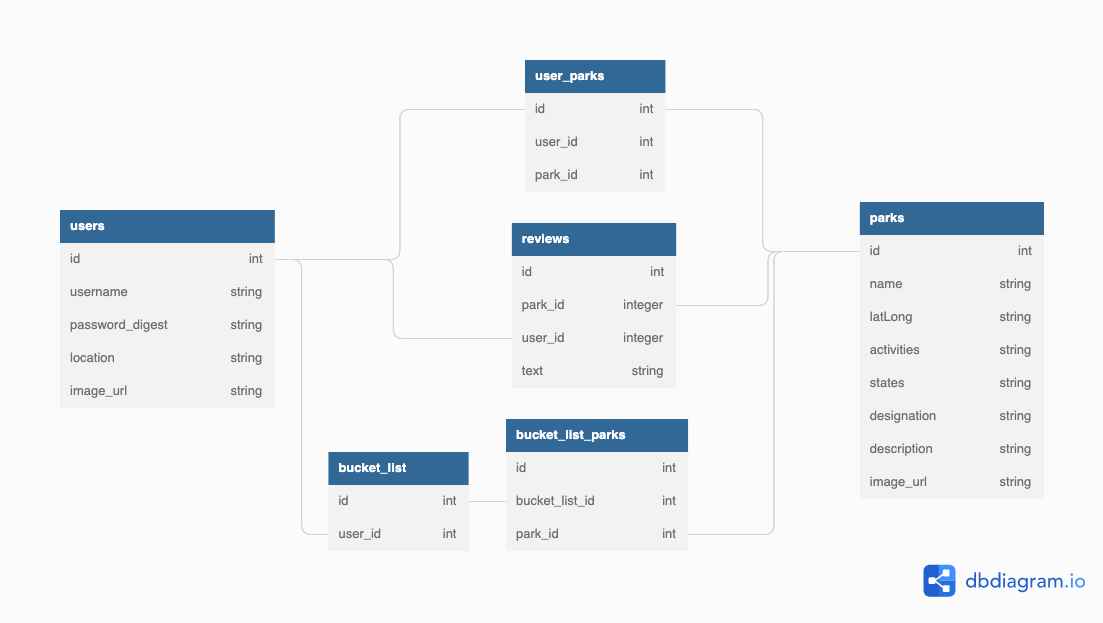
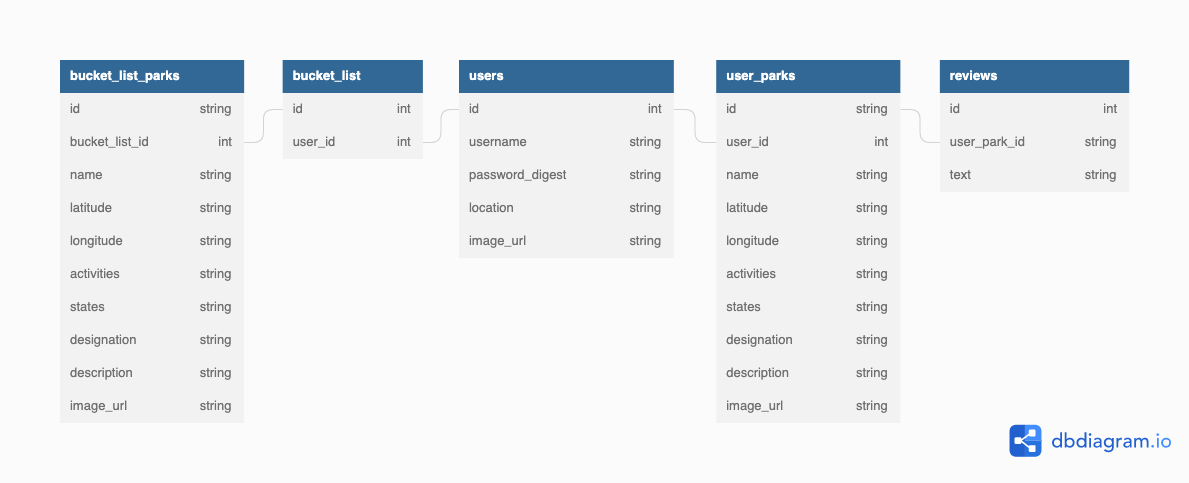
switched models and added bucket list functionality

diff --git a/client/src/components/ParkCard.js b/client/src/components/ParkCard.js
@@ -4,6 +4,8 @@ import { Card, Button } from "react-bootstrap";
 
 function ParkCard({ user, park }) {
   const [activityToggle, setActivityToggle] = useState(false);
+  const [stampToggle, setStampToggle] = useState(true);
+  const [bucketToggle, setBucketToggle] = useState(true);
 
   const activityList = park.activities.map((activity) => (
     <p key={activity.id}>{activity.name}</p>
@@ -14,43 +16,14 @@ function ParkCard({ user, park }) {
   }
 
   function handleBucketClick() {
-    const newPark = {
-      id: park.id,
-      name: park.fullName,
-      latitude: park.latitude,
-      longitude: park.longitude,
-      activities: park.activities,
-      states: park.states,
-      designation: park.designation,
-      description: park.description,
-      image_url: park.images[0].url,
-    };
-    console.log(newPark)
-    fetch("/parks", {
-      method: "POST",
-      headers: {
-        "Content-Type": "application/json",
-      },
-      body: JSON.stringify(newPark),
-    });
-    // fetch("/bucket_list_parks", {
-    //   method: "POST",
-    //   headers: {
-    //     "Content-Type": "application/json",
-    //   },
-    //   body: JSON.stringify({ user_id: user.id, park_id: park.id }),
-    // });
-    // addParkToBucketList();
-  }
-
-  function handleStampClick() {
-    fetch("/parks", {
+    fetch("/user_parks", {
       method: "POST",
       headers: {
         "Content-Type": "application/json",
       },
       body: JSON.stringify({
         id: park.id,
+        user_id: user.id,
         name: park.fullName,
         latitude: park.latitude,
         longitude: park.longitude,
@@ -61,13 +34,29 @@ function ParkCard({ user, park }) {
         image_url: park.images[0].url,
       }),
     });
-    // fetch("/user_parks", {
-    //   method: "POST",
-    //   headers: {
-    //     "Content-Type": "application/json",
-    //   },
-    //   body: JSON.stringify({ park_id: park.id, user_id: user.id }),
-    // });
+    setBucketToggle(!bucketToggle);
+  }
+
+  function handleStampClick() {
+    fetch("/user_parks", {
+      method: "POST",
+      headers: {
+        "Content-Type": "application/json",
+      },
+      body: JSON.stringify({
+        id: park.id,
+        user_id: user.id,
+        name: park.fullName,
+        latitude: park.latitude,
+        longitude: park.longitude,
+        activities: park.activities,
+        states: park.states,
+        designation: park.designation,
+        description: park.description,
+        image_url: park.images[0].url,
+      }),
+    });
+    setStampToggle(!stampToggle);
   }
 
   if (
@@ -87,8 +76,12 @@ function ParkCard({ user, park }) {
           <Card.Text>Designation: {park.designation}</Card.Text>
           <Button onClick={changeToggle}>View Activities</Button>
           {activityToggle ? <h4>Park Activities: {activityList}</h4> : null}
-          <Button onClick={handleBucketClick}>Add to Bucket List</Button>
-          <Button onClick={handleStampClick}>Stamp Passport</Button>
+          <Button onClick={handleBucketClick}>
+            {bucketToggle ? "Add to Bucket List" : "Remove From Bucket List"}
+          </Button>
+          <Button onClick={handleStampClick}>
+            {stampToggle ? "Stamp Passport" : "Remove Stamp"}
+          </Button>
         </Card.Body>
       </Card>
     );

diff --git a/client/src/components/Passport.js b/client/src/components/Passport.js
@@ -8,7 +8,8 @@ function Passport({ user }) {
   useEffect(() => {
     fetch("/user_parks")
       .then((res) => res.json())
-      .then(setUserParks);
+      .then(setUserParks)
+      .then(console.log(userParks))
   }, []);
 
   const filteredUserParks = userParks.filter(
@@ -16,7 +17,7 @@ function Passport({ user }) {
   );
 
   const stampList = filteredUserParks.map((userPark) => (
-    <PassportStamp park={userPark.park} key={userPark.id} />
+    <PassportStamp park={userPark} key={userPark.id} />
   ));
 
   return (

diff --git a/client/src/components/App.js b/client/src/components/App.js
@@ -26,17 +26,6 @@ function App() {
       .then((data) => setParks(data.data));
   }, []);
 
-  // function addParkToBucketList() {
-  //   console.log("Saved to BucketList database!");
-  //   // line to add the park to the Park database
-  //   fetch("POST")
-  // }
-
-  // function addParkToStamps() {
-  //   console.log("Saved to UserParks database");
-  //   // line to add the park to the Park database
-  // }
-
   if (!user) return <LoginPage onLogin={setUser} />;
 
   return (

diff --git a/db/schema.rb b/db/schema.rb
@@ -14,20 +14,8 @@ ActiveRecord::Schema[7.0].define(version: 2022_07_20_170921) do
   # These are extensions that must be enabled in order to support this database
   enable_extension "plpgsql"
 
-  create_table "bucket_list_parks", force: :cascade do |t|
+  create_table "bucket_list_parks", id: :string, force: :cascade do |t|
     t.integer "bucket_list_id"
-    t.integer "park_id"
-    t.datetime "created_at", null: false
-    t.datetime "updated_at", null: false
-  end
-
-  create_table "bucket_lists", force: :cascade do |t|
-    t.integer "user_id"
-    t.datetime "created_at", null: false
-    t.datetime "updated_at", null: false
-  end
-
-  create_table "parks", force: :cascade do |t|
     t.string "name"
     t.string "latitude"
     t.string "longitude"
@@ -40,17 +28,30 @@ ActiveRecord::Schema[7.0].define(version: 2022_07_20_170921) do
     t.datetime "updated_at", null: false
   end
 
+  create_table "bucket_lists", force: :cascade do |t|
+    t.integer "user_id"
+    t.datetime "created_at", null: false
+    t.datetime "updated_at", null: false
+  end
+
   create_table "reviews", force: :cascade do |t|
-    t.integer "park_id"
+    t.string "user_park_id"
     t.integer "user_id"
     t.text "text"
     t.datetime "created_at", null: false
     t.datetime "updated_at", null: false
   end
 
-  create_table "user_parks", force: :cascade do |t|
+  create_table "user_parks", id: :string, force: :cascade do |t|
     t.integer "user_id"
-    t.integer "park_id"
+    t.string "name"
+    t.string "latitude"
+    t.string "longitude"
+    t.text "activities", default: [], array: true
+    t.string "states"
+    t.string "designation"
+    t.text "description"
+    t.string "image_url"
     t.datetime "created_at", null: false
     t.datetime "updated_at", null: false
   end

diff --git a/db/seeds.rb b/db/seeds.rb
@@ -1,9 +1,6 @@
 # User.create(username: "leigh", password_digest: "12345", location: "New York", image_url: "https://i.pravatar.cc/300")
 # User.create(username: "kerry", password_digest: "12345", location: "Indianapolis", image_url: "https://i.pravatar.cc/300")
 
-# Park.create(name: "Zion National Park", latitude:"55", longitude: "95", activities: "hiking, stargazing", states: "UT", designation: "National Park", description: "Great skies to stargaze under.", image_url: "https://upload.wikimedia.org/wikipedia/commons/1/10/Zion_angels_landing_view.jpg")
-# Park.create(name: "Grand Canyon National Park", latitude:"35", longitude: "105", activities: "hiking, camping", states: "AZ", designation: "National Park", description: "The largest canyon in the US!", image_url: "https://upload.wikimedia.org/wikipedia/commons/a/aa/Dawn_on_the_S_rim_of_the_Grand_Canyon_%288645178272%29.jpg")
-
 # BucketList.create(user_id: 1)
 # BucketList.create(user_id: 2)
 

diff --git a/db/migrate/20220720170921_create_bucket_list_parks.rb b/db/migrate/20220720170921_create_bucket_list_parks.rb
@@ -1,8 +1,16 @@
 class CreateBucketListParks < ActiveRecord::Migration[7.0]
   def change
-    create_table :bucket_list_parks do |t|
+    create_table :bucket_list_parks, id: false do |t|
+      t.string :id, null: false, primary_key: true
       t.integer :bucket_list_id
-      t.integer :park_id
+      t.string :name
+      t.string :latitude
+      t.string :longitude
+      t.text :activities, array: true, default: []
+      t.string :states
+      t.string :designation
+      t.text :description
+      t.string :image_url
 
       t.timestamps
     end

diff --git a/db/migrate/20220720170857_create_user_parks.rb b/db/migrate/20220720170857_create_user_parks.rb
@@ -1,8 +1,16 @@
 class CreateUserParks < ActiveRecord::Migration[7.0]
   def change
-    create_table :user_parks do |t|
+    create_table :user_parks, id:false do |t|
+      t.string :id, null: false, primary_key: true
       t.integer :user_id
-      t.integer :park_id
+      t.string :name
+      t.string :latitude
+      t.string :longitude
+      t.text :activities, array: true, default: []
+      t.string :states
+      t.string :designation
+      t.text :description
+      t.string :image_url
 
       t.timestamps
     end

diff --git a/config/routes.rb b/config/routes.rb
@@ -2,7 +2,7 @@ Rails.application.routes.draw do
 
   # can delete index from all resources except reviews
   # resources :users, only: [:index, :create, :update]
-  resources :parks, only: [:index, :create]
+  # resources :parks, only: [:index, :create]
   resources :user_parks, only: [:index, :create, :destroy]
   resources :reviews, only: [:index, :show, :create, :update, :destroy]
   resources :bucket_lists, only: [:index, :create, :destroy]

diff --git a/app/controllers/bucket_list_parks_controller.rb b/app/controllers/bucket_list_parks_controller.rb
@@ -21,7 +21,7 @@ class BucketListParksController < ApplicationController
   private
   
   def bucket_list_park_params
-    params.permit(:bucket_list_id, :park_id)
+    params.permit(:bucket_list_id, :id, :name, :latitude, :longitude, :activities, :states, :designation, :description, :image_url)
   end
   
 end

diff --git a/app/controllers/user_parks_controller.rb b/app/controllers/user_parks_controller.rb
@@ -21,7 +21,7 @@ class UserParksController < ApplicationController
   private
   
   def user_park_params
-    params.permit(:user_id, :park_id)
+    params.permit(:user_id, :name, :latitude, :longitude, :activities, :states, :designation, :description, :image_url, :id)
   end
 
 end

diff --git a/app/models/user.rb b/app/models/user.rb
@@ -2,10 +2,9 @@ class User < ApplicationRecord
   has_secure_password
   
   has_many :user_parks
-  has_many :parks
+  has_many :reviews
   has_one :bucket_list
   has_many :bucket_list_parks
-  has_many :reviews
 
   validates :username, uniqueness: true
 end

diff --git a/db/migrate/20220720170736_create_reviews.rb b/db/migrate/20220720170736_create_reviews.rb
@@ -1,8 +1,7 @@
 class CreateReviews < ActiveRecord::Migration[7.0]
   def change
     create_table :reviews do |t|
-      # change this to be a string
-      t.integer :park_id
+      t.string :user_park_id
       t.integer :user_id
       t.text :text
 
